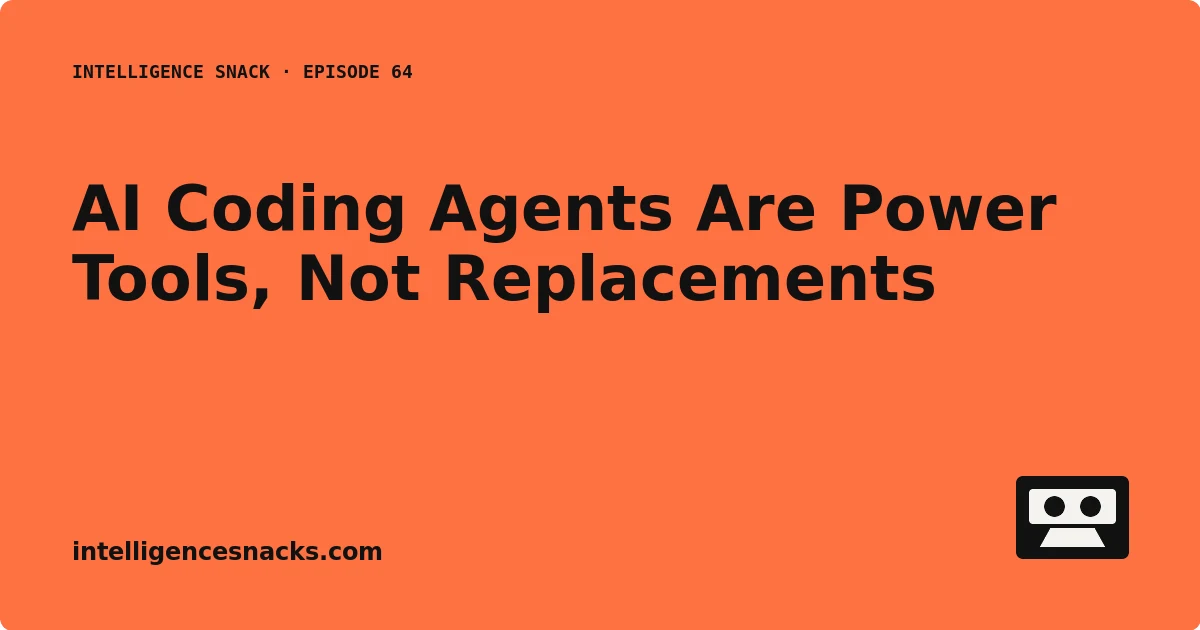
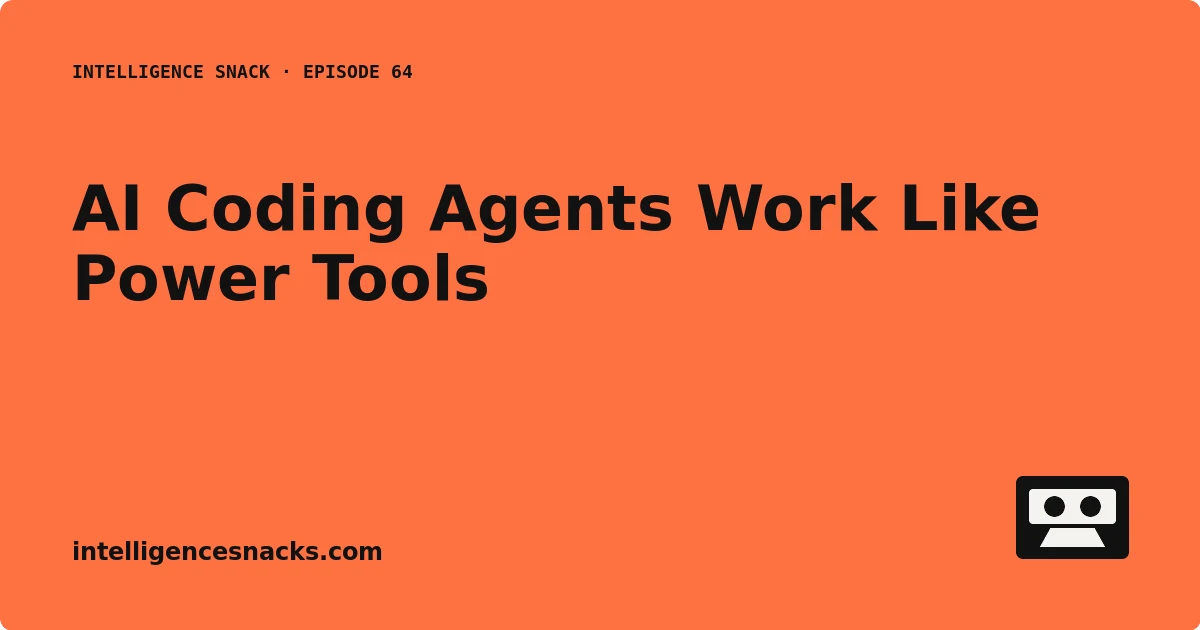
Refine published snack editorial copy

Changed region(s): [[0.0617, 0.3921, 0.8017, 0.5127], [0.5858, 0.2714, 0.8942, 0.3921]]

diff --git a/src/content/snacks/domain-experts-can-build-software.md b/src/content/snacks/domain-experts-can-build-software.md
@@ -1,10 +1,10 @@
 ---
-title: Domain Experts Can Now Build Software Around the Work They Know
+title: Domain Experts Can Build Software From Operational Knowledge
 editorialTitle: Domain Knowledge Builds Software
-standfirst: Coding agents shorten the translation chain between operational knowledge and working software, allowing systems to grow around real use.
+standfirst: Coding agents let operators turn their knowledge of workflows, exceptions and commercial pressures into working software.
 status: published
 publishedAt: 2026-08-05T00:00:00Z
-updatedAt: 2026-08-05T00:00:00Z
+updatedAt: 2026-08-06T00:00:00Z
 sourceEpisode: episode-064
 primaryTopic: software-systems
 relatedTopics:
@@ -16,12 +16,12 @@ relationships:
     note: Direct building lets domain experts test their mental model against real software sooner.
   - target: speed-magnifies-architecture
     type: overlaps
-    note: Close operational fit can coexist with weak early architecture.
+    note: Software can match daily operations closely and still begin with weak architecture.
 fixture: false
 ---
 
-Coding agents allow people with deep operational knowledge to turn that knowledge into working software with less translation through a conventional development team. The person closest to the process already understands its sequence, exceptions, informal rules and commercial pressures. Those details can be tested directly against an emerging system.
+Coding agents allow people with deep operational knowledge to turn that knowledge into software with fewer handovers through a conventional development team. The person closest to a workflow already understands its sequence, exceptions, informal rules and commercial pressures, and can test those details directly against the first working version.
 
-Many organisations already encode this knowledge in spreadsheets, macros and small databases. These tools often become critical because they were built by someone who understood the work, even when they are difficult to audit or maintain. A logistics operator can now describe jobs, partners and transactions to an agent, use the result in the real business and correct each mismatch as it appears. The software grows around an existing model of the operation.
+Many organisations already encode operational knowledge in spreadsheets, macros and small databases that become critical because someone close to the daily process built them. In the conversation, dpc describes meeting a logistics operator who used coding agents to build software around jobs, partners and transactions he understood from experience. He could use the application inside the business, correct each mismatch as it appeared and expand it around the way the company already operated.
 
-This shortens the chain in which an operator explains a process, a developer interprets the explanation and an implementation captures only part of the original intent. The first version may contain weak architecture or inconsistent code while still fitting the work closely enough to create value. Once it has users and revenue, engineers can strengthen a proven system with visible workflows and known failure points rather than beginning from an abstract specification.
+Shortening the chain between operational knowledge and working software preserves more of the operator’s original intent. The first version may contain weak architecture or inconsistent code and still match the company’s daily operations closely enough to create value. Once the application has users and revenue, its workflows and failure points give engineers concrete evidence for strengthening a proven product.

diff --git a/src/content/snacks/software-is-discovered-through-use.md b/src/content/snacks/software-is-discovered-through-use.md
@@ -1,10 +1,10 @@
 ---
-title: Software Products Are Discovered Through Use
-editorialTitle: Software Is Discovered Through Use
-standfirst: Product requirements remain incomplete until a working system meets real behaviour, exceptions and expectations.
+title: Real Use Reveals Missing Product Requirements
+editorialTitle: Use Reveals Missing Requirements
+standfirst: Working software exposes missing permissions, awkward screens and workflow exceptions that an initial specification rarely captures.
 status: published
 publishedAt: 2026-08-05T00:00:00Z
-updatedAt: 2026-08-05T00:00:00Z
+updatedAt: 2026-08-06T00:00:00Z
 sourceEpisode: episode-064
 primaryTopic: software-systems
 relatedTopics:
@@ -13,15 +13,15 @@ attribution: Developed from a conversation between Andy David, Pete Winn and dpc
 relationships:
   - target: domain-experts-can-build-software
     type: develops
-    note: Operational knowledge becomes more precise through repeated contact with the emerging system.
+    note: Operators refine their requirements by using each working version of the software.
   - target: generation-is-easier-than-steering
     type: overlaps
-    note: Human review supplies product knowledge that mechanical checks cannot express.
+    note: Human review supplies the product knowledge missing from mechanical checks.
 fixture: false
 ---
 
-A request for an application rarely contains enough information to determine the finished product. It may describe the purpose while leaving out permissions, edge cases, terminology, data relationships and the sequence that makes the workflow feel correct. Some of those details are unknown until an early version exists.
+A request for an application rarely contains enough information to determine the finished product. It may describe the purpose and leave out permissions, edge cases, terminology, data relationships and the sequence that makes a workflow feel correct, partly because some details only become visible after an early version exists.
 
-Use exposes what the original description could not. A screen feels awkward. A missing state appears. A sensible process fails when it meets real work. Building a desk or piece of furniture follows a similar pattern. The object may need to be used, rebuilt and used again before the spacing and movement feel right. Software develops through the same repeated contact between intention and result.
+Use exposes the gaps in the original description as awkward screens, missing states and sensible workflows that fail inside the business. In the conversation, Andy compares this discovery to building a desk that needs to be used and rebuilt before its spacing and movement feel right. Software develops through the same cycle of building, using and correcting.
 
-The builder’s mental model changes alongside the product. An agent can implement an instruction correctly while the instruction itself turns out to be poor. Close review catches that discovery before more features are built on top of it. Human attention therefore does more than approve generated work. It carries the lived problem, recognises when the system does not fit and revises the definition of the product as new knowledge appears.
+The builder’s understanding of the requirements changes alongside the product, and real use tests the quality of every instruction given to the agent. Close review catches a flawed workflow before more features depend on it. The person using the software can then explain the mismatch and revise the requirements as each new version reveals more about the problem.

diff --git a/src/content/snacks/ai-coding-agents-are-power-tools.md b/src/content/snacks/ai-coding-agents-are-power-tools.md
@@ -1,10 +1,10 @@
 ---
-title: AI Coding Agents Are Power Tools, Not Replacements
+title: AI Coding Agents Work Like Power Tools
 editorialTitle: Software With Power Tools
-standfirst: Coding agents move software craft away from producing every line and towards shaping architecture, evaluating behaviour and deciding where precision matters.
+standfirst: Coding agents shift a developer’s attention from writing every line towards architecture, testing and review.
 status: published
 publishedAt: 2026-08-05T00:00:00Z
-updatedAt: 2026-08-05T00:00:00Z
+updatedAt: 2026-08-06T00:00:00Z
 sourceEpisode: episode-064
 primaryTopic: ai-coding
 relatedTopics:
@@ -16,13 +16,13 @@ relationships:
     note: Faster implementation makes early structural decisions more consequential.
   - target: generation-is-easier-than-steering
     type: enables
-    note: Power-tool speed creates a larger body of work that must be evaluated and steered.
+    note: Faster code generation creates more implementation for a developer to evaluate and steer.
 featured: true
 fixture: false
 ---
 
-Software development still depends on judgement, taste and standards of finish, though coding agents change how much of the material a developer must shape directly. Writing everything by hand keeps the developer close to each line and local decision. Agentic coding moves more of the work into describing behaviour, reviewing results and deciding where precision matters.
+Software development depends on judgement, taste and standards of finish, and coding agents change how directly a developer shapes the source code. Writing code by hand keeps the developer close to each line and local decision. Agentic coding shifts more of that attention towards specifying expected behaviour, reviewing generated code and deciding where precision matters.
 
-The closest comparison is the difference between a hand plane and an electric plane. A hand plane removes material slowly and gives the craftsperson a detailed feel for the surface. An electric plane can remove far more in a single pass. Software was already moving in this direction through libraries, frameworks and packages that let developers assemble systems from prepared parts. AI adds the ability to generate custom parts at similar speed.
+Hand planes and electric planes give a craftsperson different kinds of leverage. One offers a detailed feel for the surface, and the other removes far more material in a single pass. Libraries, frameworks and packages already bring this kind of leverage to software by letting developers assemble systems from prepared parts. AI extends the same principle to custom code, giving developers parts made for the job at the speed of a power tool.
 
-The developer can now spend less time producing implementation and more time shaping architecture, testing behaviour and correcting direction. That distance creates a new weakness. Large sections of a codebase may exist without having passed through the developer’s hands, leaving gaps in their understanding of local decisions. The craft moves upward into system design and evaluation while detailed familiarity with the code becomes harder to maintain.
+This gives the developer more time to shape architecture, test features and correct the implementation, and it allows large sections of a codebase to emerge without passing through their hands. The resulting gaps in codebase knowledge move more of the craft into system design and evaluation. Detailed familiarity with individual functions and dependencies has to be maintained deliberately.

diff --git a/src/content/snacks/coding-models-have-working-personalities.md b/src/content/snacks/coding-models-have-working-personalities.md
@@ -1,10 +1,10 @@
 ---
 title: Coding Models Have Working Personalities
 editorialTitle: Models Have Working Personalities
-standfirst: Models differ not only in capability but in literalness, initiative, caution and the habits they repeatedly bring to a working relationship.
+standfirst: Every coding model brings its own mix of literalness, initiative, caution and recurring habits to a coding session.
 status: published
 publishedAt: 2026-08-05T00:00:00Z
-updatedAt: 2026-08-05T00:00:00Z
+updatedAt: 2026-08-06T00:00:00Z
 sourceEpisode: episode-064
 primaryTopic: agents
 relatedTopics:
@@ -13,12 +13,12 @@ attribution: Developed from a conversation between Andy David, Pete Winn and dpc
 relationships:
   - target: the-harness-determines-the-work
     type: overlaps
-    note: Project instructions and harness constraints can shape but not erase model tendencies.
+    note: Project instructions and harness constraints can shape persistent model tendencies.
 fixture: false
 ---
 
-Coding models differ in literalness, initiative, caution and attention to detail. A model can produce technically stronger code while creating a more difficult working relationship. Its behaviour depends on how it interprets instructions as much as on whether it can complete the task.
+Coding models differ in literalness, initiative, caution and attention to detail, giving each one a recognisable working style. A model may write strong code and still be frustrating to direct because its interpretation of an instruction shapes the code it produces alongside its ability to complete the task.
 
-A model may learn that database changes should usually include migrations and then apply that pattern too aggressively. Asked to change a field that it had just created from nanoseconds to milliseconds, it may write a migration instead of simply amending the unfinished feature. Repeated prompts, project instructions and design files can reduce the behaviour while failing to remove it because the tendency comes from the model’s training.
+The Episode 64 conversation gives a small example. A model asked to change a new field from nanoseconds to milliseconds wrote a database migration for a feature that was still being built. It had learned a generally useful pattern and applied it too aggressively. Prompts, project instructions and design files reduced this migration habit, and its training kept pulling it back towards the same response.
 
-These differences make model use resemble managing a team with uneven working styles. Detailed compliance may suit a literal model. Exploratory work may move faster with one that infers more and tolerates ambiguity. A cautious model can be useful where every change must stay inside a narrow boundary, while a faster model can handle work where local mistakes are cheap. The difficulty is that the model does not gradually acquire practical wisdom from the relationship in the way a colleague can. Its recurring habits remain until the context or the model changes.
+Working with several models can therefore feel like managing a team with different working styles. A literal model suits tightly specified implementation, and a model that tolerates ambiguity may explore an unfamiliar codebase faster. The useful skill is recognising these patterns, choosing the right model for each coding task and adjusting the instructions when a recurring habit gets in the way.

diff --git a/src/content/snacks/generation-is-easier-than-steering.md b/src/content/snacks/generation-is-easier-than-steering.md
@@ -1,9 +1,9 @@
 ---
-title: Generation Is Easier Than Steering
-standfirst: The limiting factor in longer autonomous work is increasingly the quality of the feedback that determines whether generated software remains aligned.
+title: Long Agent Runs Depend on Reliable Feedback
+standfirst: Tests, specifications and human review determine how long a coding agent can keep producing useful software on its own.
 status: published
 publishedAt: 2026-08-05T00:00:00Z
-updatedAt: 2026-08-05T00:00:00Z
+updatedAt: 2026-08-06T00:00:00Z
 sourceEpisode: episode-064
 primaryTopic: agents
 relatedTopics:
@@ -16,12 +16,12 @@ relationships:
     note: Harness design determines which steering signals reach the model.
   - target: software-is-discovered-through-use
     type: overlaps
-    note: Important product behaviour often cannot be reduced to mechanical tests.
+    note: Usability and operational expectations require feedback beyond mechanical tests.
 fixture: false
 ---
 
-Coding agents can produce large amounts of software. Longer autonomous runs require a reliable way to determine whether the work remains aligned with the intended result. The limiting factor often appears in evaluation rather than generation.
+Coding agents can produce large amounts of software, so the useful length of an autonomous run depends on the signals available to keep the generated code aligned with its requirements. As generation becomes faster, the quality of those evaluation signals increasingly sets the limit.
 
-Compilers, tests and stable APIs provide mechanical feedback. They act like a mould around a replacement implementation. The internal code can change while repeated checks confirm that the same external behaviour still fits. This makes a programming language or framework with an extensive test suite easier to rewrite than a business application whose important behaviour lives in buttons, approvals and human workflows.
+Compilers, tests and stable APIs provide mechanical feedback that acts like a mould around a replacement implementation. Repeated checks can confirm that new internal code returns the same API responses and passes the same tests, giving an agent clear boundaries for a rewrite. Business applications are harder to steer because many requirements live in button placement, approval sequences, human workflows and expectations that have never been written down.
 
-A business system can preserve its data and still become harder to use. A button can work while appearing in the wrong place. An approval flow can satisfy its formal rules while violating an unstated operational expectation. The agent has no automatic signal that these results are wrong. Each additional period of autonomous work therefore depends on more of the desired behaviour being expressed through tests, specifications or other machine-readable constraints. Where those boundaries remain incomplete, human review supplies the steering.
+An application can preserve its data and become harder to use because a working button can appear in the wrong place or an approval flow can violate an unstated operational expectation. The agent receives no automatic signal that either mistake has occurred. Longer runs therefore need more requirements expressed through tests, specifications and other machine-readable constraints, with human review covering usability and operational knowledge.

diff --git a/src/content/snacks/speed-magnifies-architecture.md b/src/content/snacks/speed-magnifies-architecture.md
@@ -1,10 +1,10 @@
 ---
 title: AI Speed Makes Architectural Judgement More Important
 editorialTitle: Speed Magnifies Architecture
-standfirst: Agents make implementation and rebuilding cheaper, but they also allow weak structural decisions to spread through a system with extraordinary speed.
+standfirst: Rapid implementation lets an early choice about data, queues or background workers spread across a codebase within weeks.
 status: published
 publishedAt: 2026-08-05T00:00:00Z
-updatedAt: 2026-08-05T00:00:00Z
+updatedAt: 2026-08-06T00:00:00Z
 sourceEpisode: episode-064
 primaryTopic: software-systems
 relatedTopics:
@@ -20,8 +20,8 @@ relationships:
 fixture: false
 ---
 
-Architecture determines how data, services and processes relate across a system. A poor function can usually be rewritten in isolation. A poor execution model or data structure can shape every feature that follows, making later changes depend on the same weak foundation.
+Architecture determines how data, services and processes relate across an application. A poor function may remain contained to one file, and a poor execution model or data structure can shape every feature that follows and make later changes depend on the same weak foundation.
 
-A simple web application may begin with a request, a database lookup and a response. Complexity arrives when the system adds queues, background workers, notifications and several forms of coordination. Coding agents can build these layers quickly enough that an early architectural choice becomes deeply embedded before its consequences are clear. Users, integrations and stored data then make the structure harder to replace.
+A simple web application may begin with a request, a database lookup and a response. Complexity arrives as the application adds queues, background workers, notifications and several forms of coordination. Coding agents can build these layers so quickly that an early architectural choice becomes deeply embedded before its consequences are clear, at which point users, integrations and stored data make that choice harder to reverse.
 
-Architectural judgement develops through maintaining real systems and seeing where they fail. Reading about an event-driven design gives less understanding than operating one for several years. AI does reduce the cost of correction because a working product provides known behaviour, existing data and a reference for the replacement. Repetitive implementation and migration work can be generated quickly. The same speed that makes rebuilding more affordable also allows a project to become trapped inside the wrong structure within weeks.
+Architectural judgement develops through maintaining production software and seeing where it fails, since operating an event-driven application for several years reveals problems that a description will miss. AI can reduce the cost of correction because an existing product provides testable features, live data and a reference for the replacement. The same generation speed can embed a weak data model or execution pattern across an entire codebase within weeks, long before anyone has accumulated the experience needed to recognise it.

diff --git a/src/content/snacks/the-harness-determines-the-work.md b/src/content/snacks/the-harness-determines-the-work.md
@@ -1,10 +1,10 @@
 ---
-title: The Harness Determines What an AI Agent Can Become
-editorialTitle: The Harness Determines the Work
-standfirst: The model supplies reasoning and generation. The surrounding harness determines its context, tools, feedback and practical limits.
+title: An Agent Harness Controls Context, Tools and Feedback
+editorialTitle: Context, Tools and Feedback
+standfirst: A coding harness controls which files an agent can inspect, which commands it can run and which results return to the model.
 status: published
 publishedAt: 2026-08-05T00:00:00Z
-updatedAt: 2026-08-05T00:00:00Z
+updatedAt: 2026-08-06T00:00:00Z
 sourceEpisode: episode-064
 primaryTopic: agents
 relatedTopics:
@@ -20,8 +20,8 @@ relationships:
 fixture: false
 ---
 
-A coding model becomes useful as an agent when the surrounding system allows it to inspect files, run commands, modify a project and continue working through the results. The model supplies reasoning and generation. The harness decides what context it receives, which tools it can use and how each action becomes part of the next step.
+A coding model becomes useful as an agent when its runtime allows it to inspect files, run commands, modify a project and respond to the output. The model supplies reasoning and generation, and the harness decides which repository files enter the prompt, which tools are available and how each command shapes the next model call.
 
-A minimal harness can treat every tool as a separate process. A shell, virtual machine or remote host communicates through a lightweight protocol and appears to the agent through the same interface. Adding an SSH command prefix can move an extension onto another machine without requiring the model to understand that anything changed. An event log can provide the common record through which tools and extensions observe the work.
+The harness described in Episode 64 treats each tool as a separate process that communicates through a lightweight protocol. A shell, virtual machine or remote host appears to the agent through the same interface, so an SSH command prefix can move an extension onto another machine and preserve the same tool call. An event log gives every tool and extension a shared record of prompts, commands and responses.
 
-This design makes the system easier to inspect and adapt than a large coding product whose prompts and internal workflows change behind the scenes. It also defines the limit of that control. Specifications, context files and design records can steer a model, though its trained habits still shape how it interprets them. The harness can constrain the environment and expose more of the mechanism. It cannot supply the accumulated judgement that the model does not possess.
+This design keeps the harness inspectable and adaptable by exposing its prompts and tool calls. Specifications, repository instructions and design records can steer the model, and its trained habits shape how it interprets them. The harness controls the execution environment and the feedback returned after each command, leaving architectural and product judgement with the developer directing the agent.
